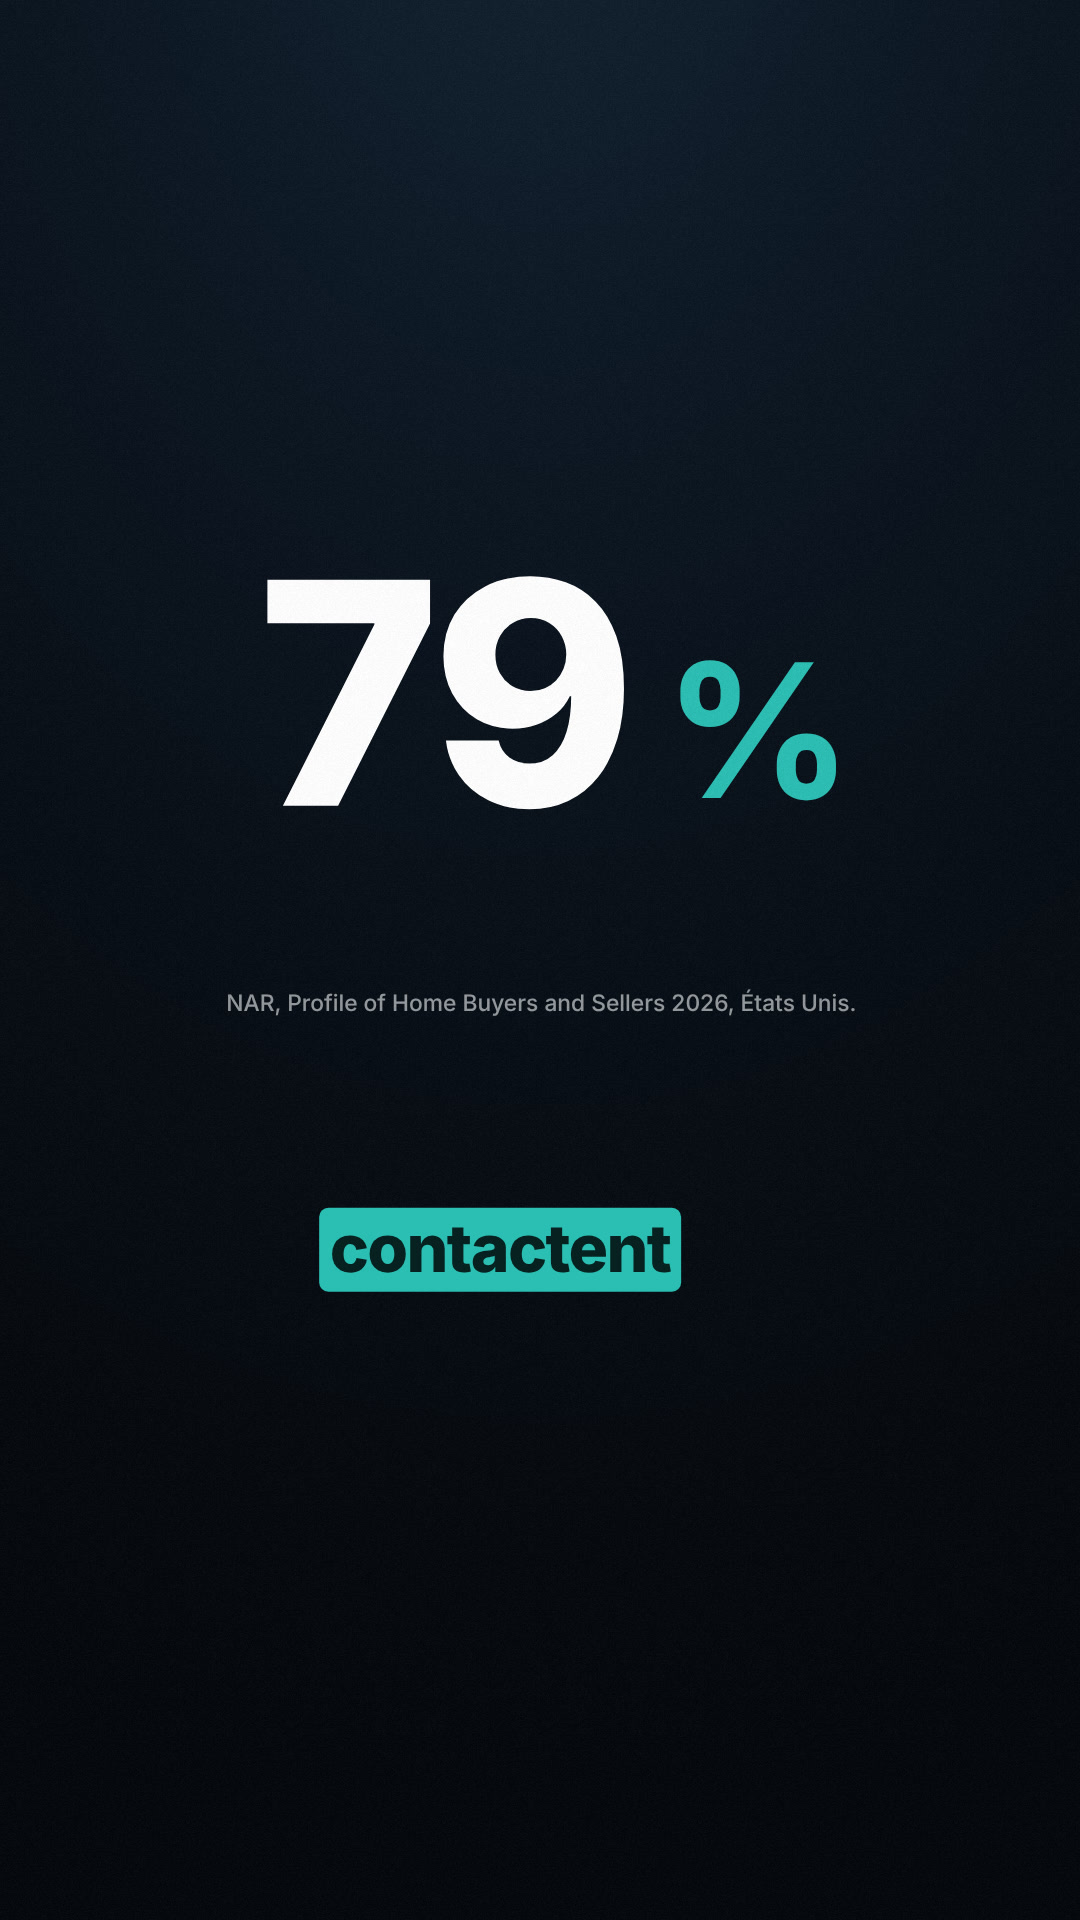
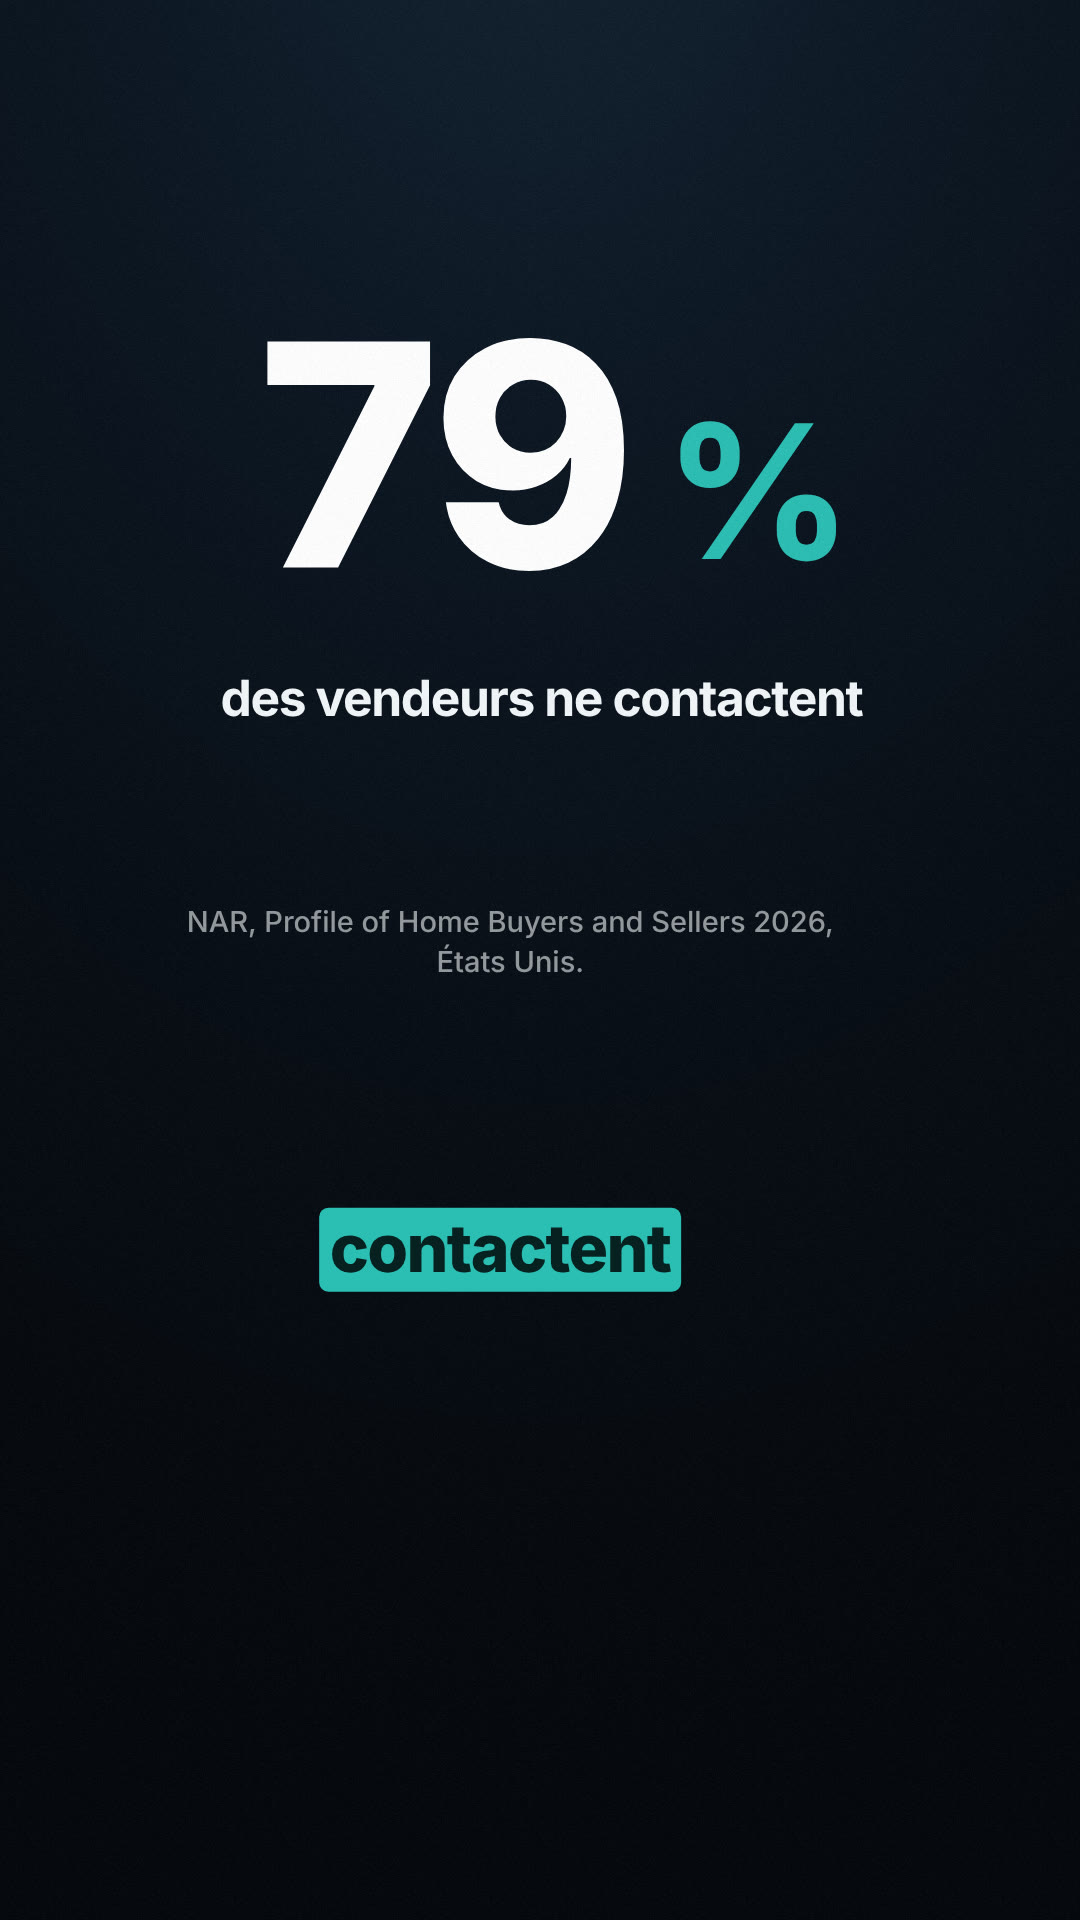
Vertical: statistiques autonomes, cartes empilées scène 8, carte de commentaires agrandie
Claude-Session: https://claude.ai/code/session_01SZrAKVMyKVUeoiUfDdyqZu

Changed region(s): [[0.2139, 0.1562, 0.7944, 0.4375], [0.1833, 0.4688, 0.7639, 0.5312], [0.6111, 0.2188, 0.7944, 0.3125]]

diff --git a/scalesuite-film/src/scenes-qui-repond/08-preuve.js b/scalesuite-film/src/scenes-qui-repond/08-preuve.js
@@ -30,12 +30,12 @@
   const FOOT = () => [(QR.OPT.clientName ? 'Groupe Mackay, campagne Vendeurs' : 'Campagne Vendeurs d’une agence cliente') + ', 1er avril au 11 novembre 2026, demandes comptées par Google Ads.',
     'Marché : LocaliQ, Real Estate Search Advertising Benchmarks 2026, près de 900 campagnes américaines, converti en $ CA à 1,40.'];
   // 9:16: the same footnote on narrower lines
-  const FOOT_TALL = () => [(QR.OPT.clientName ? 'Groupe Mackay, campagne Vendeurs' : 'Campagne Vendeurs d’une agence cliente') + ', 1er avril au 11 novembre 2026,', 'demandes comptées par Google Ads. Marché : LocaliQ, Real Estate Search', 'Advertising Benchmarks 2026, près de 900 campagnes américaines,', 'converti en $ CA à 1,40.'];
+  const FOOT_TALL = () => [(QR.OPT.clientName ? 'Groupe Mackay, campagne Vendeurs,' : 'Campagne Vendeurs d’une agence cliente,'), '1er avril au 11 novembre 2026, demandes comptées', 'par Google Ads. Marché : LocaliQ, Real Estate Search', 'Advertising Benchmarks 2026, près de 900 campagnes', 'américaines, converti en $ CA à 1,40.'];
   const L = Q.pick(
     { headY: 150, fig: 320, figY: 470, line: 54, lineY: 720, barX: 250, barW: 760, barY: [450, 660], barH: 104, chipX: 1520, chipY: 555, chip: 112,
       rowW: 1440, rowH: 118, rowY: [410, 548, 686], colX: [-670, -150, 190, 470], footY: 934, foot: 22 },
-    { headY: 320, fig: 280, figY: 600, line: 46, lineY: 840, barX: 110, barW: 520, barY: [560, 780], barH: 104, chipX: 510, chipY: 960, chip: 112, gs: 0.66, gx: 510,
-      rowW: 1440, rowH: 118, rowY: [860, 1010, 1160], colX: [-670, -150, 190, 470], footY: 1110, foot: 20 },
+    { headY: 300, fig: 280, figY: 580, line: 46, lineY: 820, barX: 80, barW: 590, barY: [580, 800], barH: 110, chipX: 510, chipY: 1000, chip: 120, gx: 510,
+      rowW: 920, rowH: 176, rowY: [600, 800, 1000], footY: 1440, foot: 28, cards: true },
   );
   const TILE = '#131E2A';
 
@@ -66,6 +66,13 @@
     const cols = ['', CLIENT(), 'Marché', 'Écart'].map((t, i) => { const c = Q.div(g, 'qr-abs', { fontSize: '26px', fontWeight: 700, color: '#8499A8', whiteSpace: 'nowrap' }); c.textContent = t; return c; });
     const rows = ROWS.map((r) => {
       const row = Q.div(g, 'qr-abs', { width: L.rowW + 'px', height: L.rowH + 'px', borderRadius: '26px', background: TILE, boxShadow: '0 18px 40px -22px rgba(0,0,0,.8), inset 0 0 0 1px rgba(255,255,255,.05)' });
+      if (L.cards) { // 9:16: one full-width card per metric, the client's figure large, the market, the gap in a chip
+        row.innerHTML = `<div style="position:absolute;left:36px;top:22px;font-size:32px;font-weight:720;color:#C9D6DC;white-space:nowrap">${r[0]}</div>
+          <div style="position:absolute;left:36px;bottom:20px;font-size:84px;font-weight:800;letter-spacing:-.03em;line-height:1;color:${Q.C.turqHi};white-space:nowrap;font-feature-settings:'tnum' 1">${r[1]}</div>
+          <div style="position:absolute;left:400px;bottom:30px;font-size:34px;font-weight:650;color:#9FB3C2;white-space:nowrap">marché ${r[2]}</div>
+          <div class="cc" style="position:absolute;right:30px;top:50%;margin-top:-40px;height:80px;display:flex;align-items:center"><span class="qr-chip" style="font-size:58px;font-weight:800;letter-spacing:-.03em">${r[3]}</span></div>`;
+        return { row, chip: row.querySelector('.qr-chip') };
+      }
       const cell = (x, html, css) => { const c = Q.div(row, 'qr-abs', Object.assign({ left: L.rowW / 2 + x + 'px', top: '0', height: L.rowH + 'px', display: 'flex', alignItems: 'center', whiteSpace: 'nowrap' }, css)); c.innerHTML = html; return c; };
       cell(L.colX[0], r[0], { fontSize: '38px', fontWeight: 720, letterSpacing: '-.02em', color: Q.C.white });
       cell(L.colX[1], r[1], { fontSize: '56px', fontWeight: 800, letterSpacing: '-.03em', color: Q.C.turqHi, fontFeatureSettings: "'tnum' 1" });
@@ -112,7 +119,7 @@
     // d) the grid, during the hold
     R.g.style.transform = `translate(${L.gx || Q.CX}px,0px) scale(${L.gs || 1})`;
     R.g.style.transformOrigin = '0 0';
-    R.cols.forEach((c, i) => { c.style.transform = `translate(${L.colX[i]}px,${L.rowY[0] - L.rowH / 2 - 48}px)`; c.style.opacity = Q.k(u, T.grid, 0.25, Q.E.sine).toFixed(3); });
+    R.cols.forEach((c, i) => { if (L.cards) { c.style.display = 'none'; return; } c.style.transform = `translate(${L.colX[i]}px,${L.rowY[0] - L.rowH / 2 - 48}px)`; c.style.opacity = Q.k(u, T.grid, 0.25, Q.E.sine).toFixed(3); });
     R.rows.forEach((r, i) => {
       const at = T.grid + i * 0.1, k = Q.k(u, at, 0.42, Q.E.springSoft);
       Q.st(r.row, { x: 0, y: L.rowY[i] + (1 - k) * 36, s: Q.lerp(0.96, 1, k), o: Q.k(u, at, 0.12, Q.E.sine) });

diff --git a/scalesuite-film/src/scenes-qui-repond/03-vitesse.js b/scalesuite-film/src/scenes-qui-repond/03-vitesse.js
@@ -17,21 +17,22 @@
   T.fig = T.rather + 0.25; T.lift = T.rather + 0.1; T.liftDur = 0.4; T.src = T.sub;
   const L = Q.pick(
     { line: 66, lineY0: 540, lineY1: 250, fig: 400, figY: 520, sub: 60, subY: 806, src: 24, srcY: 928 },
-    { line: 52, lineY0: 800, lineY1: 520, fig: 280, figY: 700, sub: 50, subY: 1040, src: 22, srcY: 1000 },
+    { line: 50, lineY0: 700, lineY1: 700, fig: 280, figY: 460, sub: 48, subY: 822, src: 28, srcY: 1010 },
   );
   const SRC = Q.pick(
     ['Oldroyd et InsideSales.com, Lead Response Management Study, 2007.', 'Plus de 15 000 demandes Web, tous secteurs.'],
-    ['Oldroyd et InsideSales.com,', 'Lead Response Management Study, 2007.', 'Plus de 15 000 demandes Web, tous secteurs.'],
+    ['Oldroyd et InsideSales.com, Lead Response', 'Management Study, 2007. Plus de 15 000', 'demandes Web, tous secteurs.'],
   );
 
   let R;
   function build(layer) {
     Q.night(layer);
     const box = Q.div(layer, 'qr-abs', { width: Q.W + 'px', height: Q.H + 'px', transformOrigin: '50% 48%' });
-    const line = Q.phrase(box, [[{ t: 'Rappelle en' }, { t: '5 minutes', chip: true, g: 1 }, { t: 'plutôt qu’en 30,', g: 2 }]], { size: L.line, weight: 700 });
+    // 9:16: the sentence stays under the figure, so that a frozen frame or a screenshot is self-sufficient
+    const line = Q.phrase(box, Q.pick([[{ t: 'Rappelle en' }, { t: '5 minutes', chip: true, g: 1 }, { t: 'plutôt qu’en 30,', g: 2 }]], [[{ t: 'en' }, { t: '5 minutes', chip: true, g: 1 }, { t: 'plutôt qu’en 30', g: 2 }]]), { size: L.line, weight: 700, keepTall: true });
     const fig = Q.figure(box, { digits: '100', size: L.fig, turns: [1, 2, 3], tail: '×',
       tailCss: { fontSize: '.74em', alignSelf: 'center', marginLeft: '.06em', fontWeight: 700 } });
-    const sub = Q.phrase(box, [[{ t: 'plus de chances de joindre le vendeur.' }]], { size: L.sub, weight: 700 });
+    const sub = Q.phrase(box, Q.pick([[{ t: 'plus de chances de joindre le vendeur.' }]], [[{ t: 'plus de chances de' }], [{ t: 'joindre le vendeur' }]]), { size: L.sub, weight: 700, keepTall: true });
     const src = Q.src(box, SRC, L.src);
     R = { box, line, fig, sub, src };
   }
@@ -51,7 +52,7 @@
     R.fig.tail.style.opacity = Q.k(u, T.land, 0.08, Q.E.sine).toFixed(3);
     R.sub.put(Q.CX, L.subY, u, { at: [T.sub] });
     const ks = Q.k(u, T.src, 0.4, Q.E.out);
-    Q.st(R.src, { x: Q.CX, y: L.srcY + (1 - ks) * 14, o: Q.k(u, T.src, 0.3, Q.E.sine) * 0.6 });
+    Q.st(R.src, { x: Q.pick(Q.CX, 510), y: L.srcY + (1 - ks) * 14, o: Q.k(u, T.src, 0.3, Q.E.sine) * 0.6 });
   }
 
   QR.scene({ id: 's3', build, render, cuts: [0, T.land] });

diff --git a/scalesuite-film/src/scenes-qui-repond/04-un-seul-courtier.js b/scalesuite-film/src/scenes-qui-repond/04-un-seul-courtier.js
@@ -20,7 +20,7 @@
   T.land = T.fig + 0.42; T.aOut = T.b - 0.2; T.bOut = T.c - 0.22; T.card = T.c - 0.25; T.cOut = QR.DUR.s4 - 0.2;
   const L = Q.pick(
     { fig: 400, figY: 430, sub: 60, subY: 744, src: 24, srcY: 928, b: 84, bY: 540, c: 60, cY: 396, cardX: 960, cardY: 640, cardS: 1.4 },
-    { fig: 300, figY: 700, sub: 46, subY: 960, src: 22, srcY: 1000, b: 60, bY: 800, c: 46, cY: 640, cardX: 510, cardY: 880, cardS: 1.6 },
+    { fig: 300, figY: 470, sub: 48, subY: 736, src: 28, srcY: 940, b: 60, bY: 800, c: 46, cY: 640, cardX: 510, cardY: 880, cardS: 1.6 },
   );
 
   let R;
@@ -29,8 +29,8 @@
     const a = Q.div(layer, 'qr-abs', { width: Q.W + 'px', height: Q.H + 'px', transformOrigin: '50% 46%' });
     const fig = Q.figure(a, { digits: '79', size: L.fig, turns: [1, 2], tail: '%',
       tailCss: { fontSize: '.6em', alignSelf: 'flex-end', marginLeft: '.2em', marginBottom: '.135em', fontWeight: 700, lineHeight: 1 } });
-    const sub = Q.phrase(a, [[{ t: 'des vendeurs ne contactent' }, { t: 'qu’un seul courtier.', chip: true, g: 1 }]], { size: L.sub, weight: 700 });
-    const src = Q.src(a, ['NAR, Profile of Home Buyers and Sellers 2026, États Unis.'], L.src);
+    const sub = Q.phrase(a, Q.pick([[{ t: 'des vendeurs ne contactent' }, { t: 'qu’un seul courtier.', chip: true, g: 1 }]], [[{ t: 'des vendeurs ne contactent' }], [{ t: 'qu’un seul courtier', chip: true, g: 1 }]]), { size: L.sub, weight: 700, keepTall: true });
+    const src = Q.src(a, Q.pick(['NAR, Profile of Home Buyers and Sellers 2026, États Unis.'], ['NAR, Profile of Home Buyers and Sellers 2026,', 'États Unis.']), L.src);
     const pb = Q.phrase(layer, [[{ t: 'Ce courtier là,' }, { t: 'ce devrait être' }, { t: 'toi.', g: 1 }]], { size: L.b, weight: 750 });
     const pc = Q.phrase(layer, [[{ t: 'Attends 30 minutes, et' }, { t: 'il est passé à autre chose.', chip: true, g: 1 }]], { size: L.c, weight: 700 });
     const card = Q.card(layer, { title: 'Évaluation', city: 'Sainte Julie' });
@@ -51,7 +51,7 @@
     R.fig.tail.style.opacity = Q.k(u, T.land, 0.08, Q.E.sine).toFixed(3);
     R.sub.put(Q.CX, L.subY, u, { at: [T.sub, T.one], chip: T.one });
     const ks = Q.k(u, T.sub, 0.4, Q.E.out);
-    Q.st(R.src, { x: Q.CX, y: L.srcY + (1 - ks) * 14, o: Q.k(u, T.sub, 0.3, Q.E.sine) * 0.6 });
+    Q.st(R.src, { x: Q.pick(Q.CX, 510), y: L.srcY + (1 - ks) * 14, o: Q.k(u, T.sub, 0.3, Q.E.sine) * 0.6 });
 
     R.pb.put(Q.CX, L.bY, u, { at: [T.b, T.you], out: T.bOut, outDur: 0.2 });
 

diff --git a/scalesuite-film/src/scenes-qui-repond/09-appel.js b/scalesuite-film/src/scenes-qui-repond/09-appel.js
@@ -15,7 +15,7 @@
   const N1 = SEG[0].t.length, N2 = N1 + SEG[1].t.length + 1;
   const L = Q.pick(
     { head: 92, headY: 200, w: 1120, cardY: 590, s: 1, logoH: 230, logoY: 448, tag: 62, tagY: 684, banner: false },
-    { head: 64, headY: 500, w: 1120, cardY: 800, s: 0.8, logoH: 170, logoY: 800, tag: 50, tagY: 970, banner: true },
+    { head: 64, headY: 500, w: 800, h: 540, cardY: 820, s: 1.2, logoH: 170, logoY: 800, tag: 50, tagY: 970, banner: true },
   );
   const KEY = '5 MINUTES';
   const neutral = (d) => `<span style="width:${d}px;height:${d}px;border-radius:50%;flex:none;display:block">${SS.icon.person('#8FA5A2', '#DCE9E6')}</span>`;
@@ -26,7 +26,7 @@
     Q.day(layer);
     const ui = Q.div(layer, 'qr-abs', { width: Q.W + 'px', height: Q.H + 'px', transformOrigin: '50% 45%' });
     const head = Q.typed(ui, SEG, { size: L.head, weight: 750, color: Q.C.ink, caretColor: Q.C.ink });
-    const card = Q.div(ui, 'qr-abs', { width: L.w + 'px', height: '470px', borderRadius: '36px', background: '#fff', color: Q.C.ink,
+    const card = Q.div(ui, 'qr-abs', { width: L.w + 'px', height: (L.h || 470) + 'px', borderRadius: '36px', background: '#fff', color: Q.C.ink,
       boxShadow: '0 2px 4px rgba(18,44,40,.06), 0 50px 90px -34px rgba(10,70,64,.42), 0 0 0 1px rgba(26,26,26,.05)', overflow: 'hidden' });
     card.innerHTML = `
       <div style="height:74px;display:flex;align-items:center;justify-content:center;border-bottom:1.5px solid #E9EEF0;font-size:28px;font-weight:760;letter-spacing:-.02em">Commentaires</div>

diff --git a/scalesuite-film/src/film-qui-repond.js b/scalesuite-film/src/film-qui-repond.js
@@ -22,7 +22,7 @@
       subs = Q.subtitles(stage, QR, { skip: ['s2:2', 's2:3', 's5:0'] }); // « Voici » and the system's name are on screen in scene 5
       subs.light = (t) => (t >= c('s5', 'systeme') && t < QR.START.s8) || t >= QR.START.s9;
       // moments where the frame holds nothing but the sentence: the subtitles move to the centre
-      subs.centre = (t) => t < c('s1', 'trois') + 0.95 || (t >= QR.START.s2 && t < c('s2', 'toi') - 0.2) || (t >= c('s4', 'ceCourtier') - 0.2 && t < c('s4', 'attends') - 0.22);
+      subs.centre = (t) => t < c('s1', 'trois') + 0.95 || (t >= QR.START.s2 && t < c('s2', 'toi') - 0.2) || (t >= c('s4', 'ceCourtier') - 0.02 && t < c('s4', 'attends') - 0.22);
     }
     const last = QR.scenes[QR.scenes.length - 1];
 
